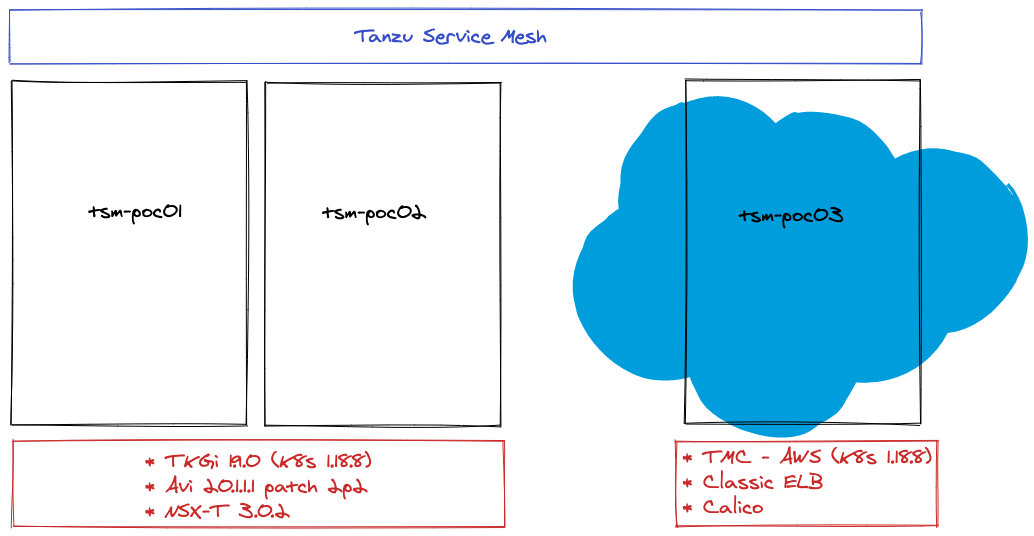
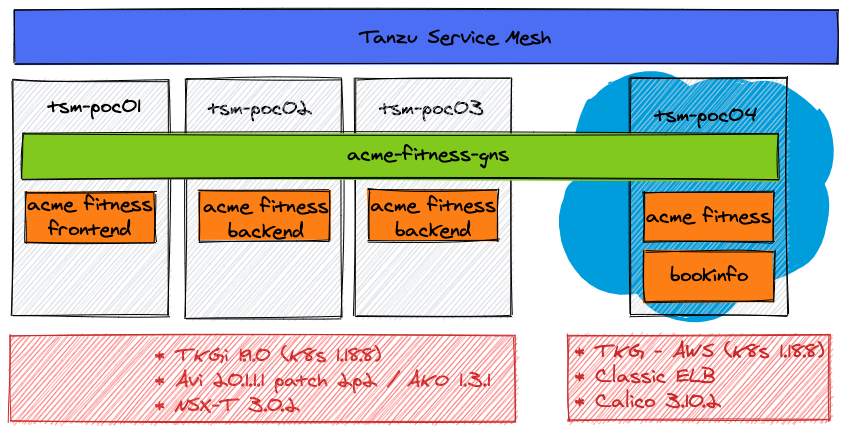
Updating overview image

diff --git a/README.md b/README.md
@@ -14,4 +14,4 @@
 * Calico
 * 
 ### Environment Overview
-![](https://i.imgur.com/zAsxoow.png)
+![TSM POC Overview](./docs/images/TSM-POC-Env-Overview.png)
